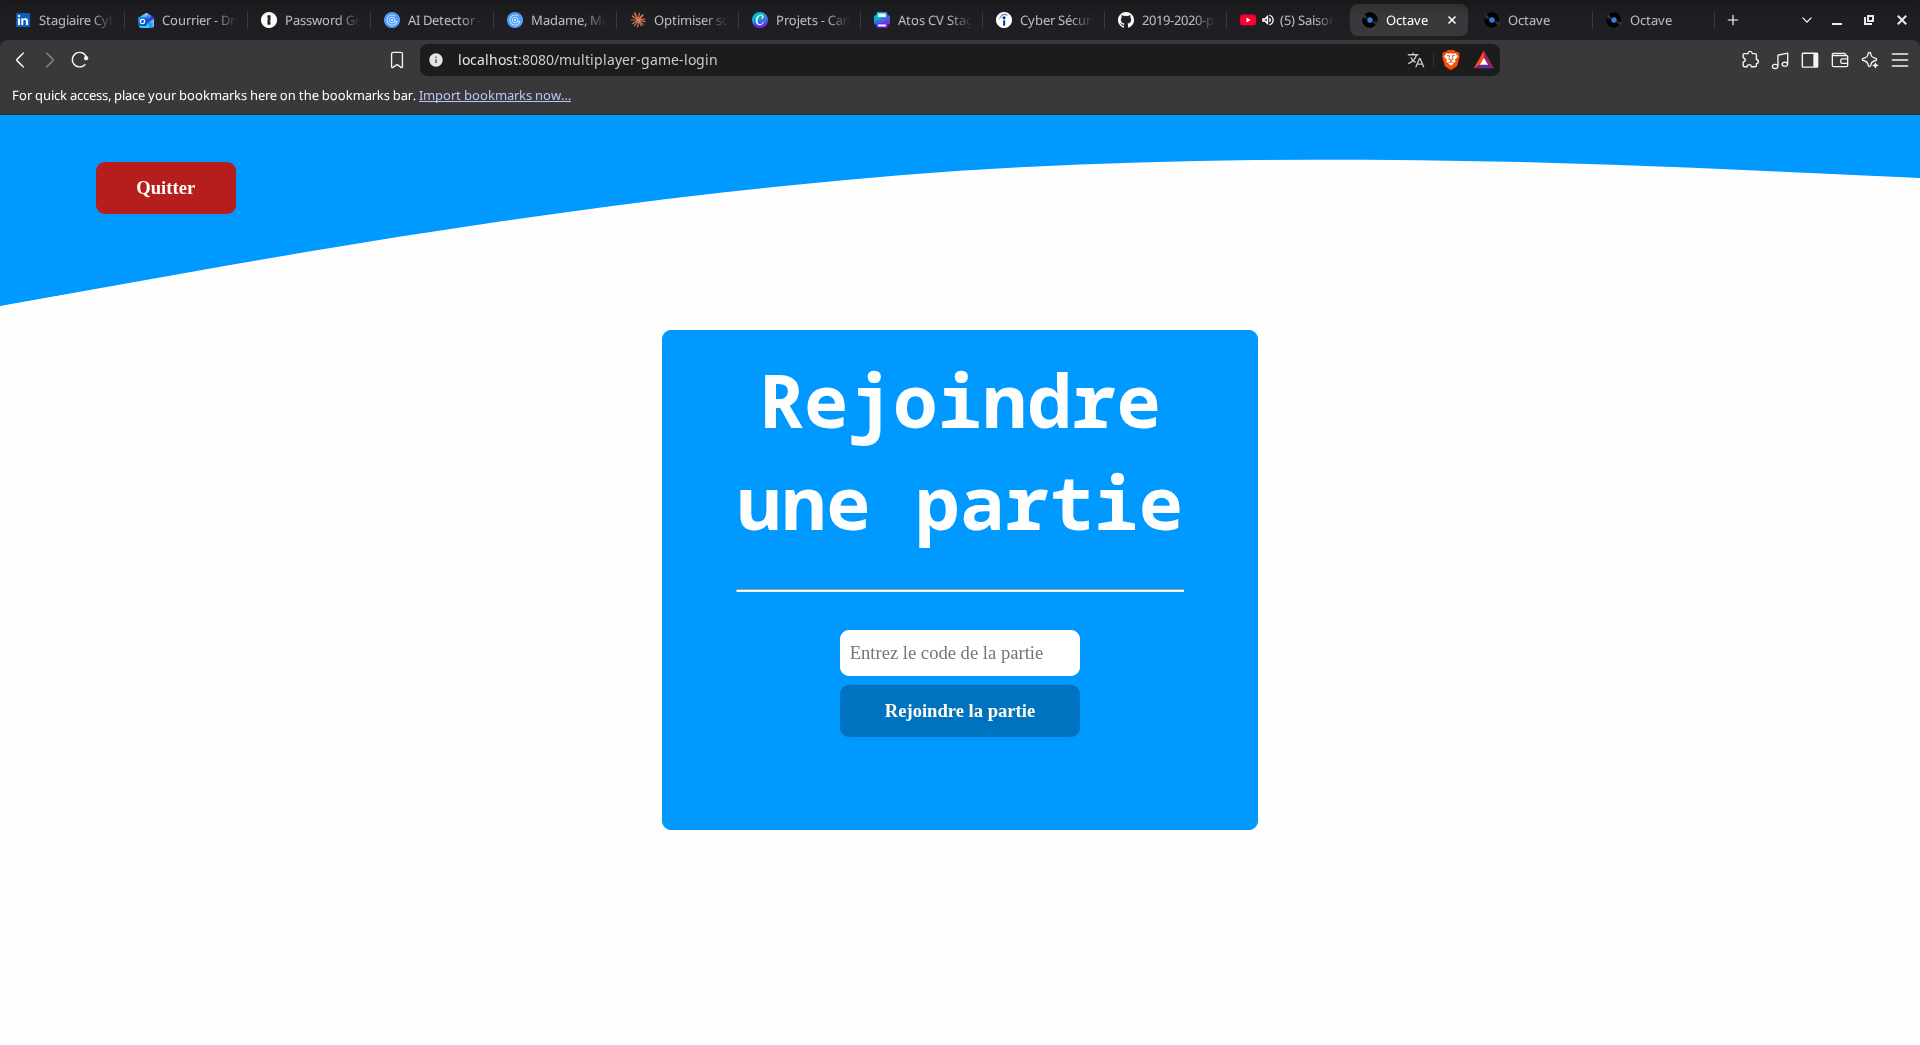
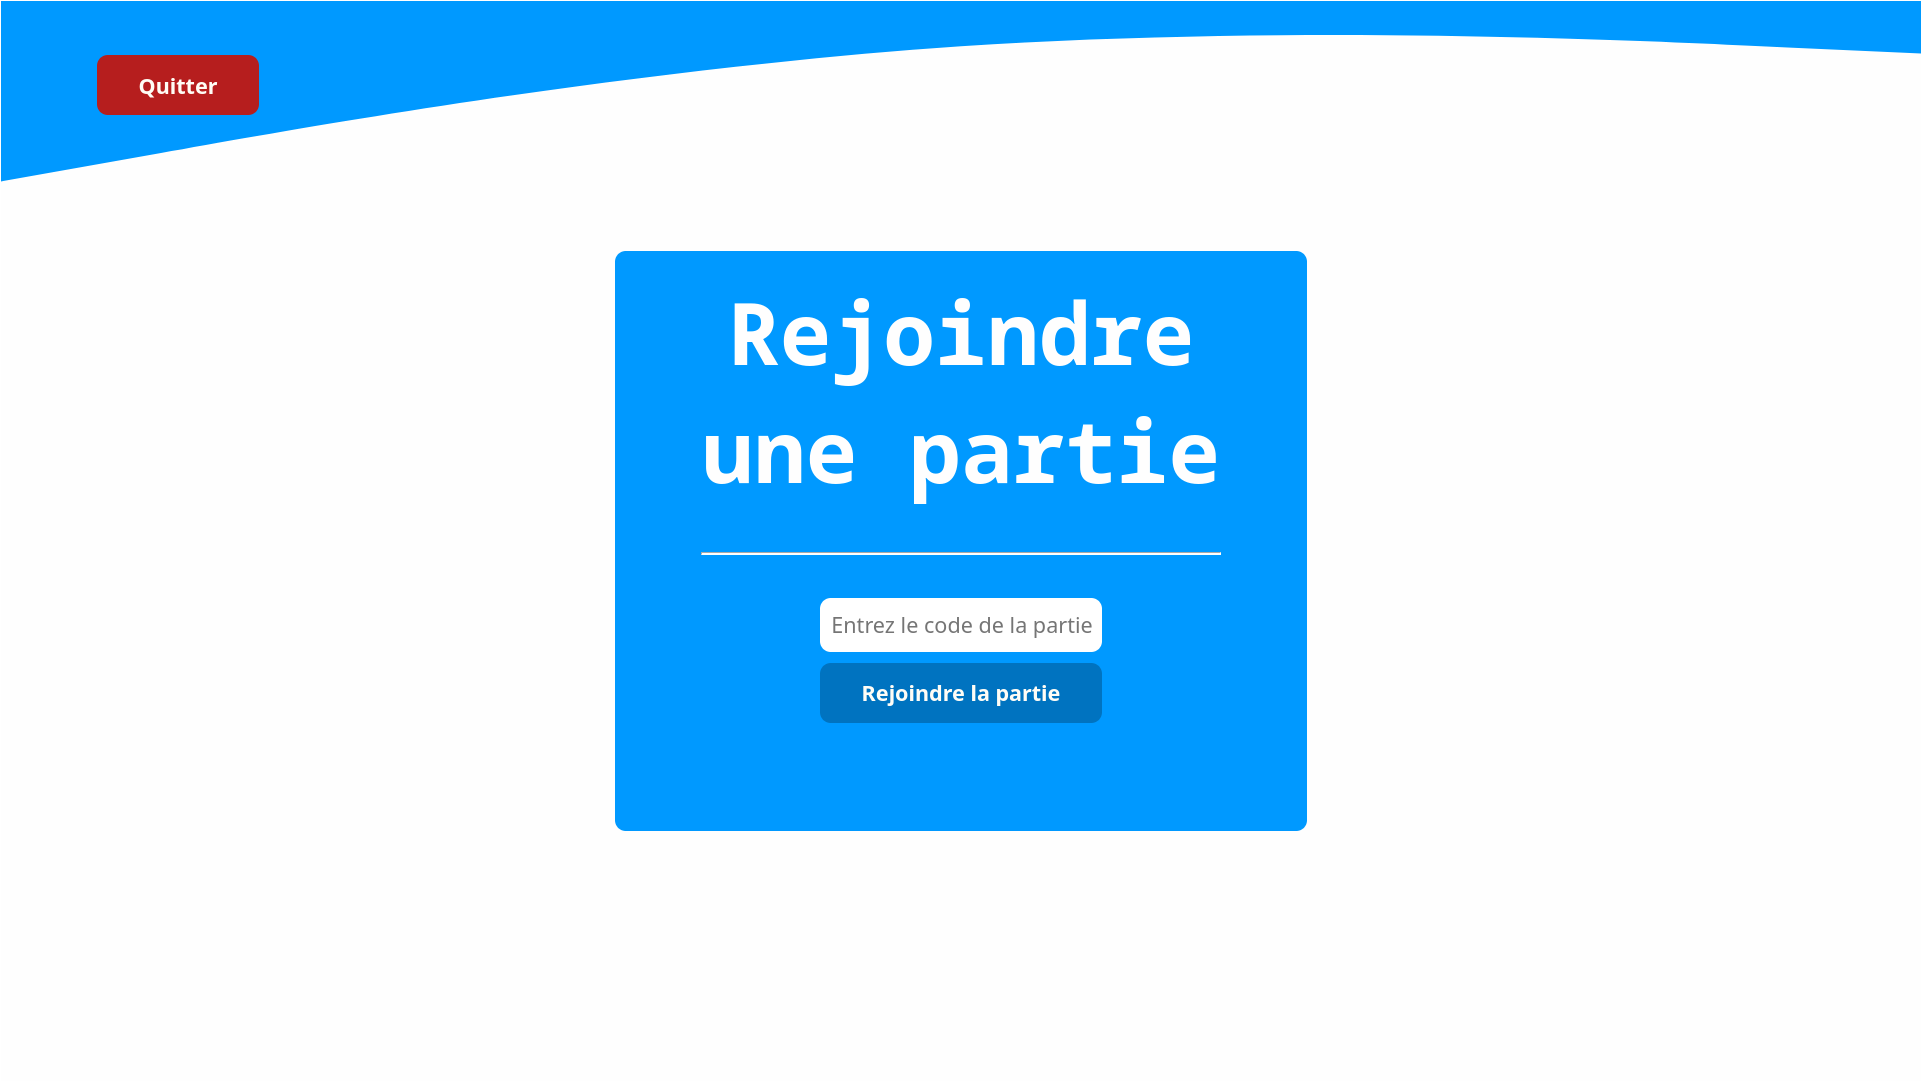
fix: octave pictures

Changed region(s): [[0.0, 0.0, 1.0, 0.7656], [0.4062, 0.5512, 0.5938, 0.7043], [0.3438, 0.7656, 0.6562, 0.7962]]

diff --git a/superfolio-frontend/src/app/mocks/project.mock.ts b/superfolio-frontend/src/app/mocks/project.mock.ts
@@ -69,7 +69,7 @@ export const OCTAVE = {
 
         "projects/octave/pictures/admin-quiz-list.png",
         "projects/octave/pictures/admin-quiz-create.png",
-        "projects/octave/pictures/admin-quiz-edit.png.png",
+        "projects/octave/pictures/admin-quiz-edit.png",
 
         "projects/octave/pictures/multiplayer-lobby.png",
         "projects/octave/pictures/players-in-the-room.png",
@@ -91,7 +91,7 @@ export const OCTAVE = {
         "projects/octave/pictures/tutorial-4.png",
         "projects/octave/pictures/tutorial-5.png",
 
-        "projects/octave/pictures/patient-stas.png",
+        "projects/octave/pictures/patient-stats.png",
         "projects/octave/pictures/patient-evolution-stats.png",
         "projects/octave/pictures/patient-quiz-history.png",
         "projects/octave/pictures/quiz-stats-page.png",
